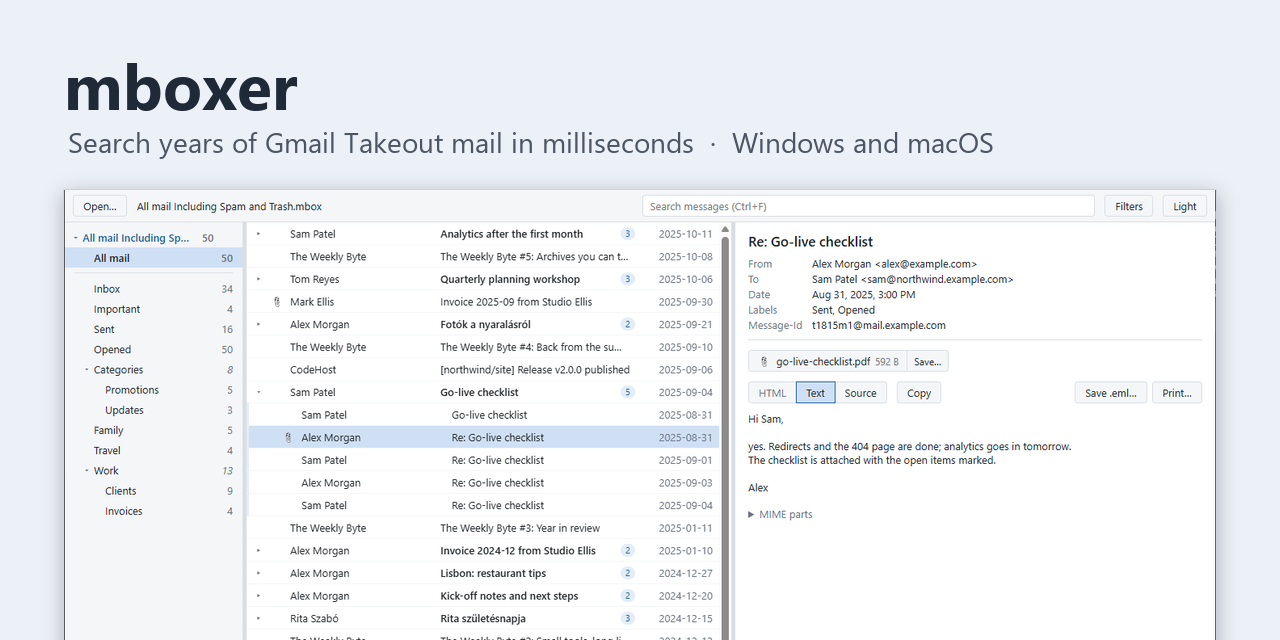
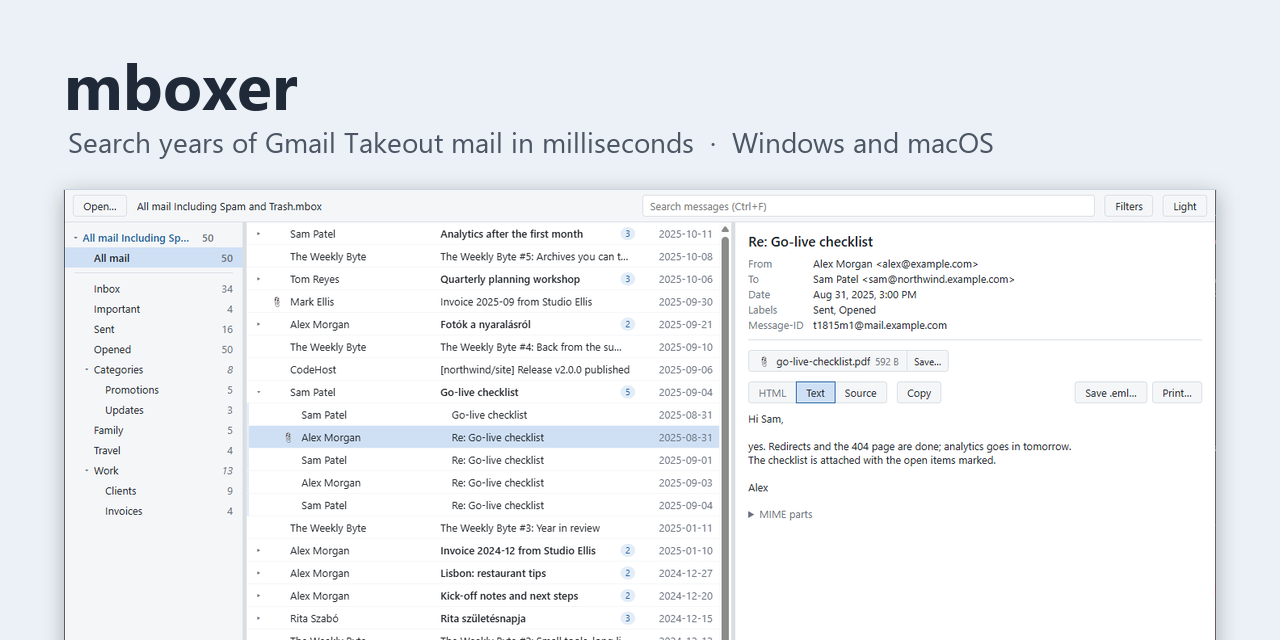
docs: refresh the README screenshot and the social preview on 0.2.0 (task 059) (#235)
## What and why

`docs/images/viewer.png` and `docs/images/social-preview.png` showed a
`v0.1.0` status bar, the old `Message-Id`
label and a lowercase "index reused". Both are retaken on the current
build with the task 037 recipe: the demo mbox
(`scripts/make-demo-mbox.py`) on a `subst` drive, a throwaway WebView2
profile, `--lang=en-US`, the release exe
(the debug build's console window can cover the viewer on the capture),
the same rows, selection and crop as
before, so the README alt text stays true. The social preview is
composed from the new picture with the 028
banner; its upload in the repository settings is a manual step after the
merge.

Task:
[tasks/done/059-refresh-the-screenshots-over-the-demo-mbox.md](tasks/done/059-refresh-the-screenshots-over-the-demo-mbox.md)

## Follow-ups

none

## Checklist

- [x] `cargo fmt --check`, `cargo clippy --all-targets -- -D warnings`
and `cargo test` pass (no code change)
- [x] No real mail anywhere: fixtures, tests, screenshots and the
description use made-up messages only
- [x] A new crate has its one-line reason in `Cargo.toml` (CONTRIBUTING,
'Dependencies: one exe'), or there is
      none
- [x] User-facing changes are described in `docs/usage.md` and
`docs/reference.md` (none)
- [x] The commits pass the hook (`git config core.hooksPath .githooks`)
- [x] Tested on: Windows

🤖 Generated with [Claude Code](https://claude.com/claude-code)

---------

Changed region(s): [[0.625, 0.4062, 0.7812, 0.5312]]

diff --git a/tasks/done/059-refresh-the-screenshots-over-the-demo-mbox.md b/tasks/done/059-refresh-the-screenshots-over-the-demo-mbox.md
@@ -1,0 +1,68 @@
+---
+size: S
+origin: session 2026-10-19
+created: 2026-10-19
+started: 2026-10-19
+closed: 2026-10-19
+plan: none
+milestone: M6 Hardening
+changelog: housekeeping
+---
+
+# 059 — Refresh the README screenshot and the social preview over the demo mbox
+
+## Context
+
+What: `docs/images/viewer.png` and `docs/images/social-preview.png` showed a `v0.1.0` status bar, the old
+`Message-Id` and "index reused" strings. Both retaken with the recipe of task 037 (throwaway WebView2 profile, demo
+mbox on a neutral drive letter, `--lang=en-US`), on the current build.
+Why: the front page and the social card are the first thing a visitor sees, and they showed a version that no
+longer exists.
+Done when: both images show the current version and strings over made-up mail only, and the README renders them.
+Decided 2026-10-19: taken in the main session; the social preview is composed from the new viewer picture the way
+028 did it (1280×640, title banner) and uploaded in the repository settings by hand.
+
+## Steps
+
+1. [x] `cargo build --release -p mboxer-app` on the branch, `python -I scripts/make-demo-mbox.py`
+2. [x] the capture over the demo mbox with the 037 recipe: light theme, the Go-live conversation expanded, the
+   message with the attachment selected, the title bar cropped; the picture checked by eye before it is copied
+3. [x] `docs/images/social-preview.png` composed from the new picture, 1280×640, the same banner as before
+4. [x] README alt text still true; `subst` drive removed, no viewer running, the real WebView2 profile untouched
+
+## Log
+
+- 2026-10-19 — promoted on `task/059-refresh-the-screenshots` in the main session.
+- 2026-10-19 — the demo mbox (50 messages, 42 862 bytes) copied under a `subst M:` drive as
+  `M:\Takeout\Mail\All mail Including Spam and Trash.mbox`, so the status bar shows no local path.
+- 2026-10-19 — the first run used the debug exe, whose console window landed in front of the viewer on the
+  capture; the release exe (`windows` subsystem, no console) was built and used instead. The first run also
+  rebuilt the sidecar index (the format changed since the last picture), so the second run shows "Index reused".
+- 2026-10-19 — the capture script of task 037 reused from a scratch copy: window 1440×860, a click into the empty
+  reader (activation), the theme button *Auto* → *Light*, the list/reader splitter 708 → 880, the Go-live
+  conversation expanded through its chevron, the second message (with the attachment) selected, the cursor parked
+  outside the window, the title bar cropped → 1426×822, 108 KB.
+- 2026-10-19 — the social preview composed with the 028 script (Pillow 12.2): the banner text unchanged, the new
+  picture scaled under it → 1280×640, 225 KB. The upload in the repository settings is the maintainer's manual
+  step after the merge.
+
+## Deviations from the plan
+
+- The release exe instead of the debug one, because the debug build opens a console window that can cover the
+  viewer on the capture.
+
+## Verification
+
+- 2026-10-19 — the picture checked by eye: the status bar reads `v0.2.0` and "Index reused (built …)", the reader
+  shows `Message-ID`, only demo mail (`example.*` addresses), the `M:\Takeout\Mail\…` path and no local one; the
+  layout matches the previous picture (same rows, same selection), so the README alt text stays true. The social
+  preview shows the same picture under the banner. After the run: `subst M: /d` done, no `mboxer` process, the
+  newest file of the real WebView2 profile is older than the run (22:05 against a 23:2x capture), the throwaway
+  profile and the demo copy removed.
+
+## Closing checklist
+
+- [x] every follow-up is a `backlog/` file (`/tasks add`) or deleted with a reason in the Log
+- [x] Verification written, dated
+- [x] `tasks_check` green, README index regenerated
+- [x] moved to `done/` with `closed: 2026-10-19`

diff --git a/tasks/README.md b/tasks/README.md
@@ -13,7 +13,7 @@ edit the file, never the issue. Everything here is English.
 <!-- tasks:index:start -->
 _Generated 2026-10-19 — edit the files, not this section._
 
-**State:** 9 backlog (4 ready · 0 blocked · 2 waiting · 3 ideas) · 0 in progress · 55 done · 2 dropped · 13 decisions
+**State:** 8 backlog (3 ready · 0 blocked · 2 waiting · 3 ideas) · 0 in progress · 56 done · 2 dropped · 13 decisions
 
 ### Ready
 
@@ -23,7 +23,6 @@ _Generated 2026-10-19 — edit the files, not this section._
 |---|---|---|---|
 | 051 | [set_query takes its generation before the files lock, and the sync commands blo…](backlog/051-query-generation-race-and-sync-commands-on-the-files-lock.md) | M | 2026-10-19 |
 | 055 | [The usage guide says what the viewer does](backlog/055-usage-guide-matches-the-viewer.md) | S | 2026-10-19 |
-| 059 | [Refresh the README screenshot and the social preview over the demo mbox](backlog/059-refresh-the-screenshots-over-the-demo-mbox.md) | S | 2026-10-19 |
 | 064 | [Manual round over a large archive after the hardening wave: rebuild under an op…](backlog/064-manual-round-over-a-large-archive-after-the-hardening-wave.md) | S | 2026-10-19 |
 
 ### Needs decision
@@ -71,6 +70,7 @@ _none_
 |---|---|---|
 | 066 | [The plan: field is none in every task file, the rule is written down](done/066-plan-field-policy-for-prompt-derived-names.md) | 2026-10-19 |
 | 062 | [The commit-rule wording names the scope form, the CI header gives the runner-ti…](done/062-commit-rule-wording-ci-header-and-lint-entry.md) | 2026-10-19 |
+| 059 | [Refresh the README screenshot and the social preview over the demo mbox](done/059-refresh-the-screenshots-over-the-demo-mbox.md) | 2026-10-19 |
 | 058 | [Task files: dead origin paths, plan slugs, and who closes a milestone](done/058-dead-task-references-plan-slugs-and-milestone-closing.md) | 2026-10-19 |
 | 057 | [CONTRIBUTING's pre-commit list matches CI, and the private-era wording goes](done/057-contributing-checks-match-ci-and-private-era-leftovers.md) | 2026-10-19 |
 | 056 | [The commit hook checks the type prefix, and the required checks hold after a re…](done/056-commit-hook-checks-the-type-and-ci-re-checks-edited-pull-requests.md) | 2026-10-19 |
@@ -78,9 +78,8 @@ _none_
 | 053 | [Attachment and reader hardening: blocked extensions, reserved names, referrer, …](done/053-attachment-and-reader-hardening.md) | 2026-10-19 |
 | 052 | [Swap the index atomically, lock the build, and skip a bad message instead of fa…](done/052-atomic-index-swap-build-lock-and-skipped-messages.md) | 2026-10-19 |
 | 050 | [A colon in free text is read as a field name, so Re: számla finds nothing](done/050-colon-in-free-text-reaches-the-query-parser.md) | 2026-10-19 |
-| 049 | [The label tree panics on a label whose ninth byte is inside a multibyte charact…](done/049-label-tree-panics-on-a-multibyte-boundary.md) | 2026-10-19 |
 
-_45 more in `done/`._
+_46 more in `done/`._
 
 ### Decisions
 

diff --git a/CHANGELOG.md b/CHANGELOG.md
@@ -27,6 +27,7 @@ not the list. The summary under a heading is written by hand and kept by the gen
 - The commit hook checks the type prefix, and the required checks hold after a release and a PR edit ([056](https://github.com/speti4/mboxer/blob/main/tasks/done/056-commit-hook-checks-the-type-and-ci-re-checks-edited-pull-requests.md))
 - CONTRIBUTING's pre-commit list matches CI, and the private-era wording goes ([057](https://github.com/speti4/mboxer/blob/main/tasks/done/057-contributing-checks-match-ci-and-private-era-leftovers.md))
 - Task files: dead `origin` paths, plan slugs, and who closes a milestone ([058](https://github.com/speti4/mboxer/blob/main/tasks/done/058-dead-task-references-plan-slugs-and-milestone-closing.md))
+- Refresh the README screenshot and the social preview over the demo mbox ([059](https://github.com/speti4/mboxer/blob/main/tasks/done/059-refresh-the-screenshots-over-the-demo-mbox.md))
 - The commit-rule wording names the scope form, the CI header gives the runner-time reason, the lint entry is complete ([062](https://github.com/speti4/mboxer/blob/main/tasks/done/062-commit-rule-wording-ci-header-and-lint-entry.md))
 - The `plan:` field is `none` in every task file, the rule is written down ([066](https://github.com/speti4/mboxer/blob/main/tasks/done/066-plan-field-policy-for-prompt-derived-names.md))
 
